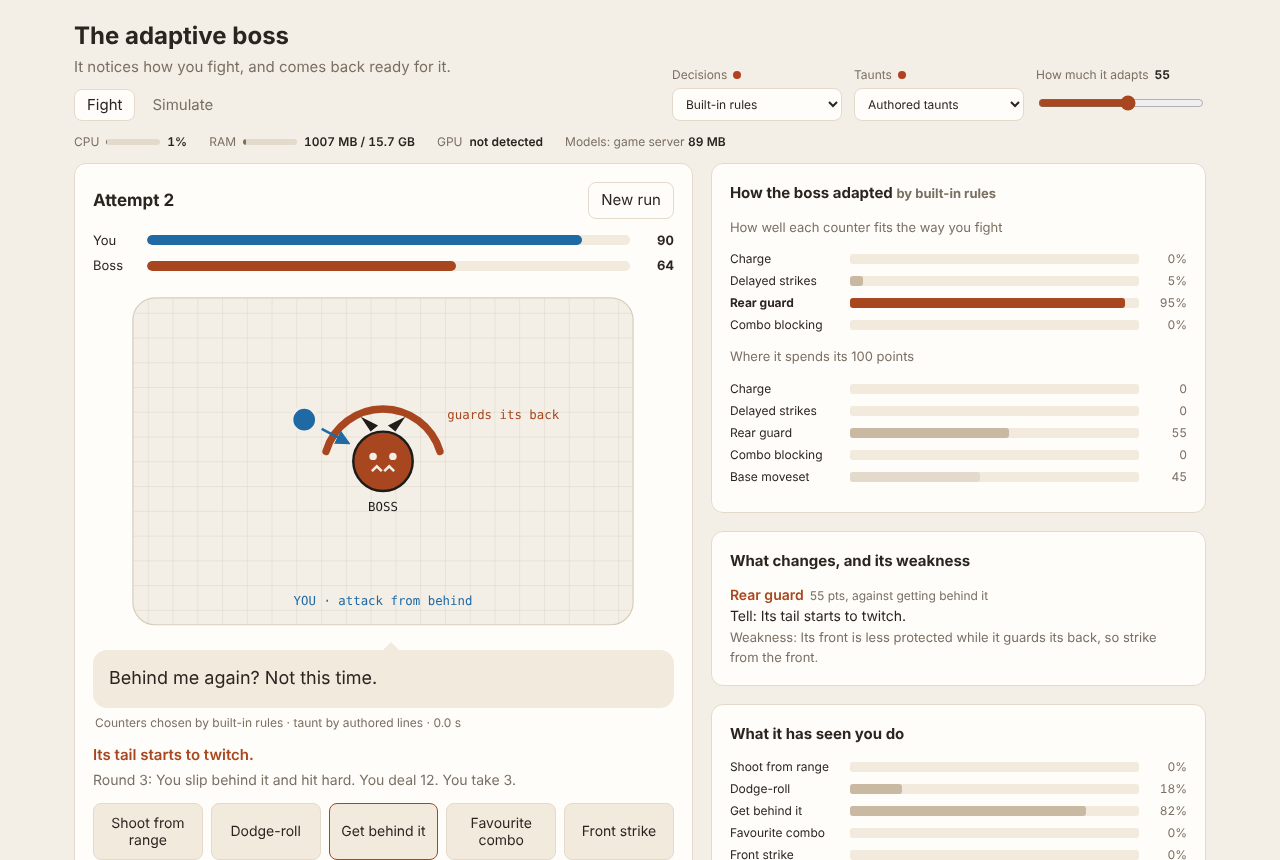
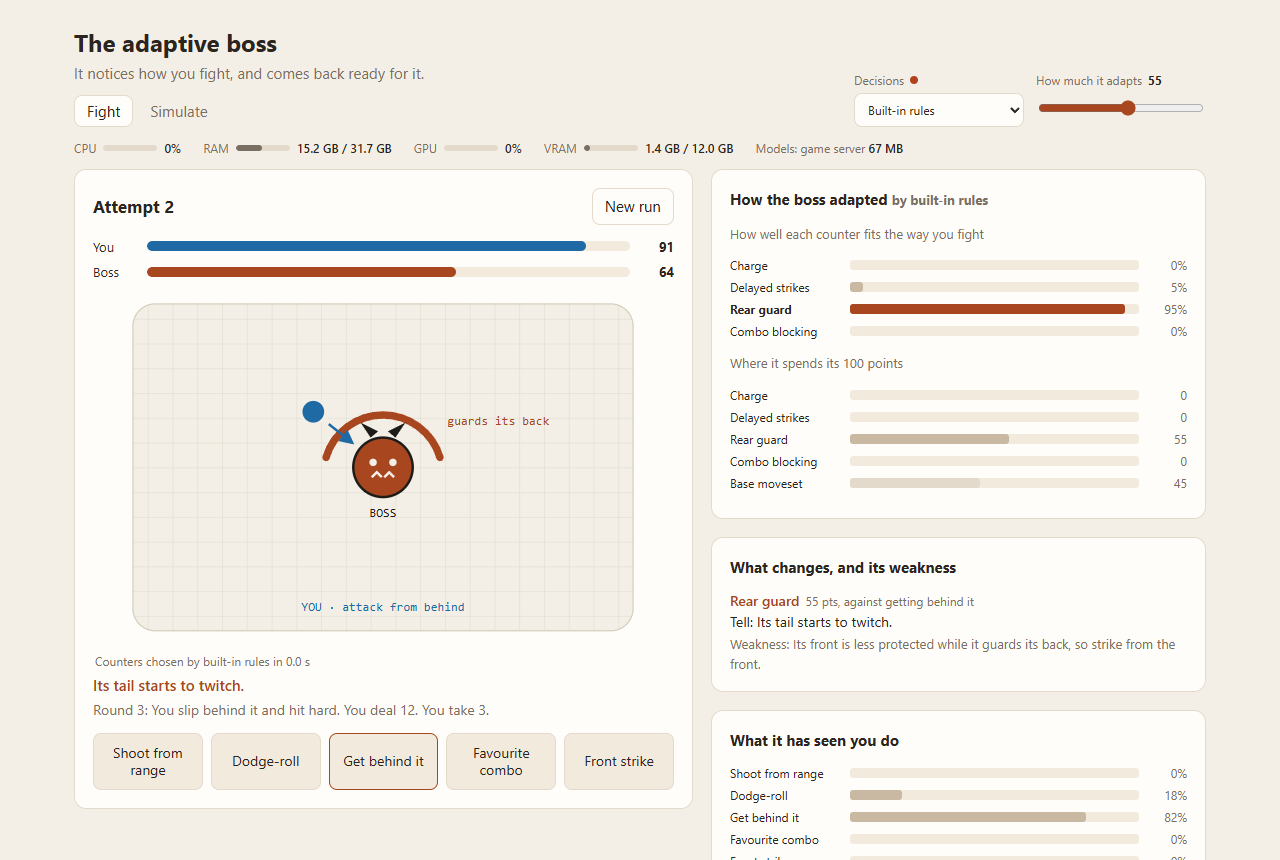
Update README to clarify boss fight mechanics and decision model. Enhance descriptions of counters, tells, and weaknesses. Revise simulation details for clarity and accuracy. Update screenshot to reflect changes.

diff --git a/README.md b/README.md
@@ -1,6 +1,6 @@
 # adaptive-bosses
 
-A boss fight where the boss notices how you fight and comes back ready for it. Keep attacking from behind and it learns to guard its back. Keep shooting from range and it learns to charge. Every counter it buys has a warning sign you can learn to read and a weakness you can punish.
+A boss fight where the boss notices how you fight and comes back ready for it. Keep attacking from behind and it learns to guard its back. Keep shooting from range and it learns to charge. Every new trick it learns comes with a warning sign you can learn to read and a weakness you can punish.
 
 It is a playable prototype of the sketch on my [research page](https://girhe.com/research#sketch-boss). The sketch is an illustrative model with sliders; this version is a real fight, and the boss's choices come from a local AI model.
 
@@ -8,18 +8,30 @@ It is a playable prototype of the sketch on my [research page](https://girhe.com
 
 ## How it works
 
-You fight in rounds. At the start of each round the boss either uses its base attack or one of the counters it has bought, and a counter always shows its tell first ("Its tail starts to twitch"). You pick a move: shoot from range, dodge-roll, get behind it, use your favourite combo, or strike from the front.
+You fight the boss several times in a row. Each fight is an attempt, and each attempt is a series of rounds. In every round you pick one of five moves: shoot from range, dodge-roll, get behind it, use your favourite combo, or strike from the front.
 
-| Counter | Bought against | Tell | Weakness |
+At first the boss only has its plain attack, which the game calls its base moveset. After each attempt it looks at which moves you used most and learns special attacks against them. Three words come up everywhere in the game:
+
+- A **counter** is a special attack aimed at one of your habits. If you keep getting behind the boss, it learns a rear guard: its tail sweeps behind it and knocks you down. There are four counters, one for each habit except striking from the front.
+- A **tell** is the warning sign the boss shows at the start of a round in which it will use a counter. The rear guard's tell is "Its tail starts to twitch". The text appears above the move buttons, so you always know what is coming before you pick your move.
+- A **weakness** is the move that beats a counter. While the boss guards its back, its front is open, so a front strike lands hard.
+
+If you read the tell and answer with the right move, the counter backfires on the boss. If you ignore it and keep doing the same thing, you get punished.
+
+| Counter | Learned against players who keep | Tell (the warning sign) | Weakness (how to beat it) |
 |---|---|---|---|
 | Charge | shooting from range | It crouches and roars | stuck after the charge; dodge-roll for free hits |
 | Delayed strikes | dodge-rolling | It holds its swing | slower; a front strike interrupts it |
 | Rear guard | getting behind it | Its tail twitches | its front is open; strike from the front |
 | Combo blocking | your favourite combo | It watches your hands | any other opener catches it off guard |
 
-Between attempts the boss adapts. A typed decision model reads a summary of how you have been fighting (which moves you lean on, with recent attempts counting more, and how often you answered a tell with the right move) and scores the four counters. The boss splits its counter budget by those scores. "How much it adapts" sets the budget out of 100 points; whatever it doesn't spend stays in its base moveset. This runs on [GLiClass](https://github.com/Knowledgator/GLiClass), an open-source zero-shot classifier.
+Between attempts the boss decides which counters to use. A decision model reads a short summary of how you have been fighting: which moves you lean on (recent attempts count more) and how often you answered a tell with the right move. It then scores how well each of the four counters fits you. It can only pick from those four, so its answer always turns into something the boss can actually do.
 
-GLiClass can be missing. Without it, built-in rules from the sketch make the decision: the boss spends in proportion to the square of each habit's share, so it leans hardest into your strongest habit.
+The boss has 100 points. The "How much it adapts" slider sets how many of them it may spend on counters, and it splits them by the scores. The points are also how often each counter shows up: 55 points on the rear guard means it uses the rear guard in about 55% of rounds. Points it doesn't spend stay on the plain attack.
+
+The decision model is [GLiClass](https://github.com/Knowledgator/GLiClass), an open-source model that matches a piece of text to the closest of a list of labels without being trained on this game. It runs on your own machine.
+
+GLiClass can be missing. Without it, built-in rules from the sketch make the decision instead. They give most of the points to your strongest habit: a move you use twice as often gets four times the points.
 
 The cards beside the fight show how well each counter fit the way you fight, where the boss spent its points, what each counter changes and how to beat it, what the boss has seen you do, and how hard each attempt was. "Behind the scenes" shows the text the decision model read. A bar under the title shows CPU, RAM, GPU and VRAM use, and how much memory the decision model takes.
 
@@ -48,9 +60,9 @@ GLiClass uses `knowledgator/gliclass-small-v1.0` by default and runs on the GPU 
 
 ## Simulate
 
-The Simulate tab has bot players with fixed habits (attacks from behind, fights from range, dodges, repeats a combo, varies everything) fight a static boss and an adaptive boss for a number of attempts. Each bot gets better every attempt: it learns to read the tells and to beat the base moveset. That is the assumption the sketch makes about players, played out instead of drawn.
+The Simulate tab has bot players with fixed habits (attacks from behind, fights from range, dodges, repeats a combo, varies everything) fight two bosses for a number of attempts: a static boss that never learns counters, and the adaptive boss. Each bot gets better every attempt: it learns to read the tells and to beat the base moveset. That is the assumption the sketch makes about players, played out instead of drawn.
 
-It shows how hard each attempt was for both bosses against the 35 to 60% target band from the sketch, how each bot did, and how long every decision took (in total and inside GLiClass), with fallbacks and memory use. Results download as JSON.
+It measures how hard each attempt was as the share of the bot's health lost (100% if it lost). The sketch aims for 35 to 60%: hard enough to matter, easy enough to win. The tab shows how often each boss stays in that target band, how each bot did, and how long every decision took (in total and inside GLiClass), how often the built-in rules had to stand in for GLiClass, and memory use. Results download as JSON.
 
 The same thing runs from the command line and saves to `simulations/`:
 
